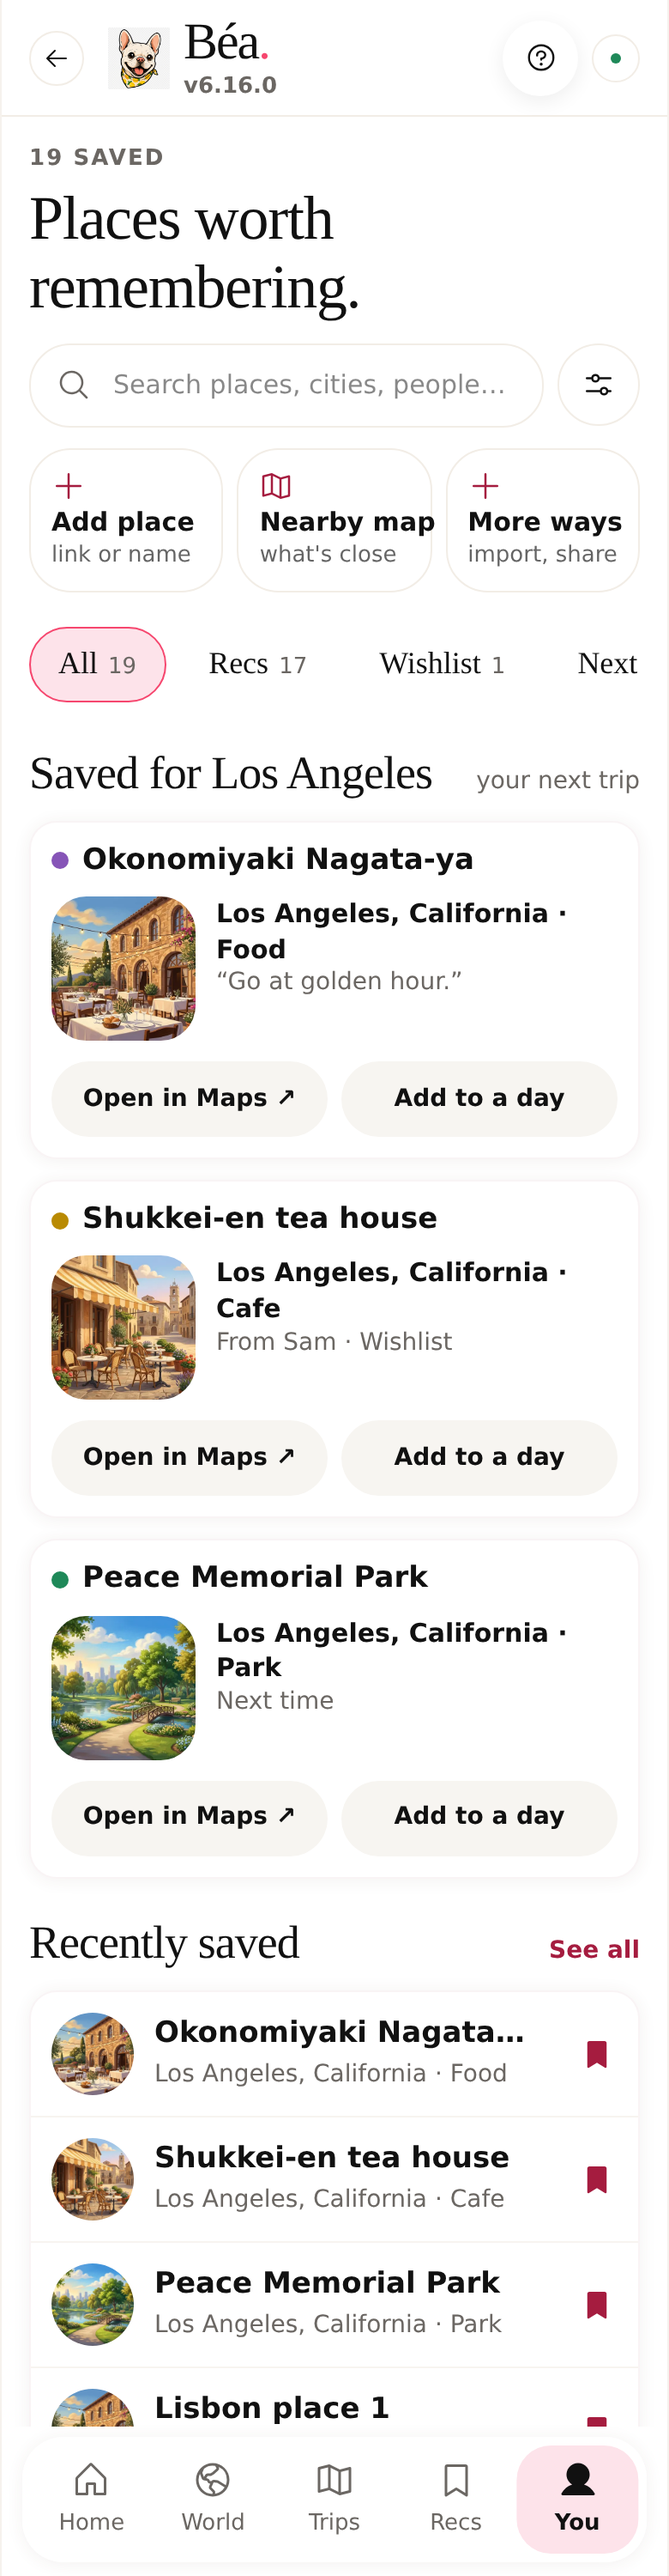
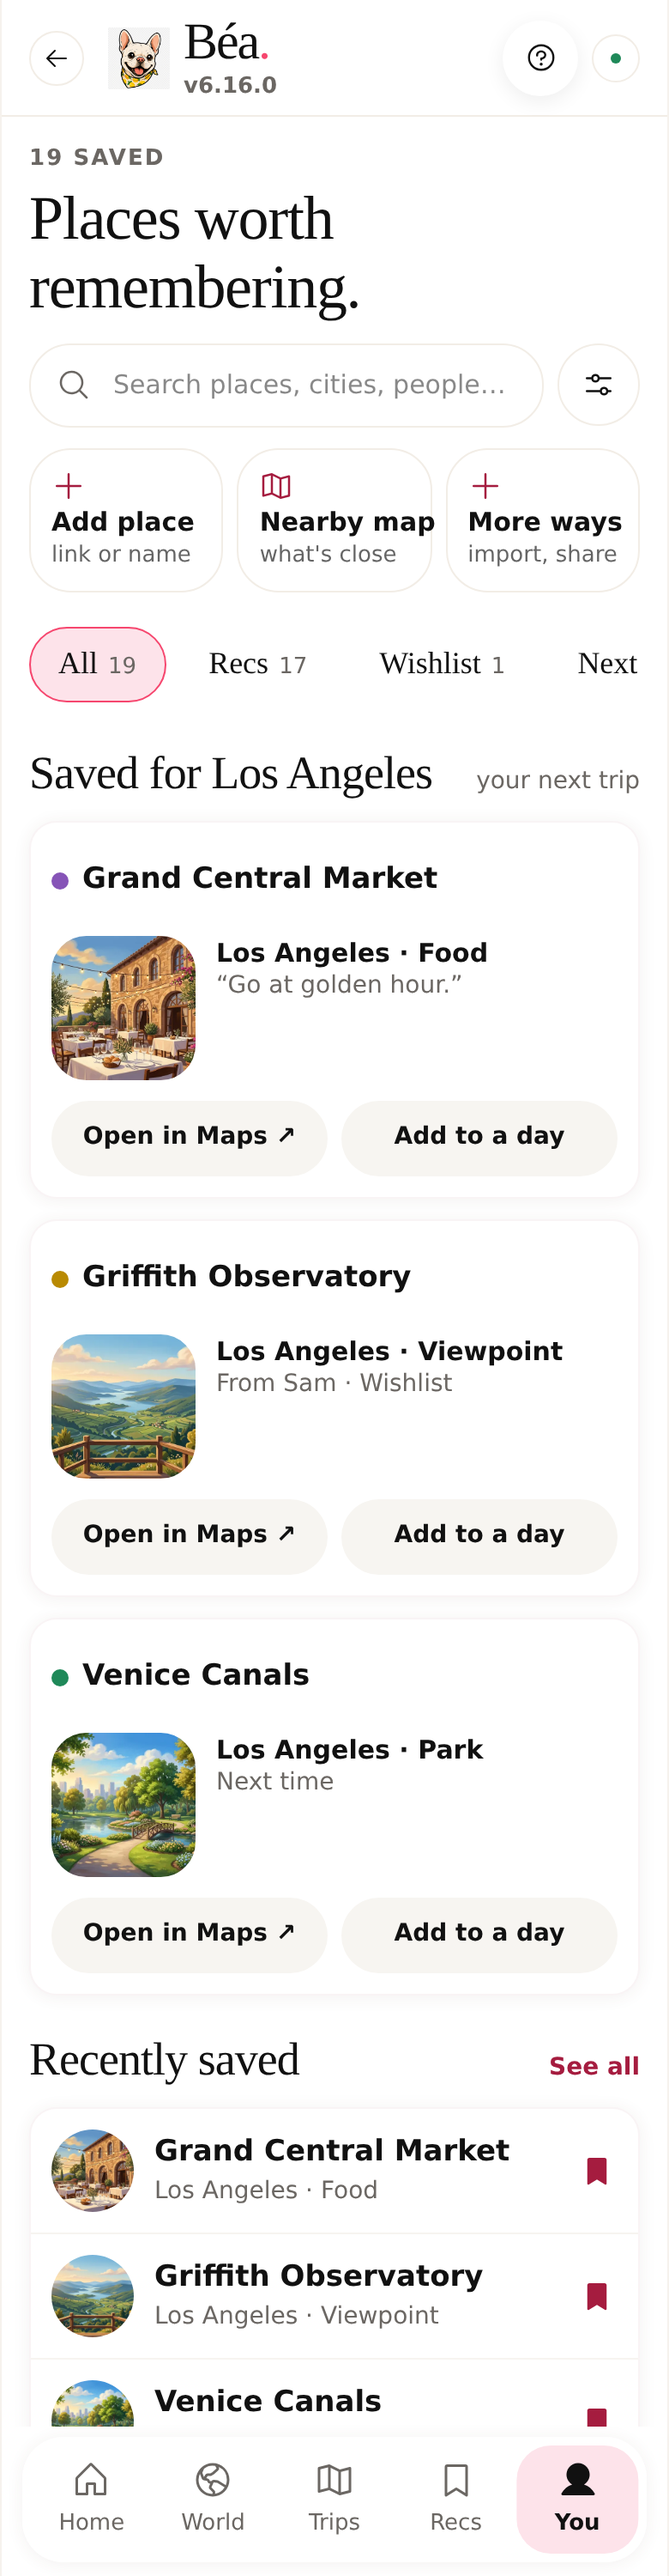
Recs and You: address review findings
Logical spacing on list counts, a theme picker that does not go stale under the sheets, whole class names for the You row bubbles, a Los Angeles fixture that matches its trip, unused collection code removed, a 44 px tap target on card names.

Claude-Session: https://claude.ai/code/session_012upFV6WjyP6Sen8JvUuEKt

diff --git a/src/routes/recommendations.tsx b/src/routes/recommendations.tsx
@@ -11,11 +11,9 @@ import {
   Bookmark,
   ChevronDown,
   Hand,
-  Heart,
   Inbox,
   ListPlus,
   LocateFixed,
-  MapPin,
   MapPinned,
   Plus,
   Search,
@@ -64,7 +62,6 @@ import {
 import { extractPastedPlaceLink, looksLikePastedPlaceLink } from "@/lib/place-paste";
 import { placeSuggestionLines, formatTripLocation } from "@/lib/place-label";
 import { prettyPlaceCategory } from "@/lib/place-kind";
-import { placeArtUrl, type PlaceArt as PlaceArtKind } from "@/lib/place-art";
 import { useUndo } from "@/hooks/useUndo";
 import {
   capturedFromParsedPlace,
@@ -685,18 +682,6 @@ function RecommendationsPage() {
         .slice(0, 4)
     : [];
   const counts = listCounts(vault.rows.filter((r) => !hiddenFromRecs(r, r.pin_type, r.visited)));
-  const recent = recentlySaved(
-    vault.rows.filter((r) => !hiddenFromRecs(r, r.pin_type, r.visited)),
-    3,
-  );
-  const latestIn = (t: PinType) =>
-    recentlySaved(
-      vault.rows.filter(
-        (r) => (r.pin_type ?? "reco") === t && !hiddenFromRecs(r, r.pin_type, r.visited),
-      ),
-      1,
-    )[0];
-
   const savedRow = justSaved ? vault.rows.find((r) => r.id === justSaved.id) : undefined;
   const placeRow =
     screen.kind === "place" && screen.place.savedId
@@ -714,7 +699,7 @@ function RecommendationsPage() {
       <button
         type="button"
         onClick={() => openPlace(placeFromRow(r))}
-        className="flex items-center gap-2 text-left"
+        className="flex min-h-11 w-full items-center gap-2 text-left"
       >
         <span
           className={`size-2.5 shrink-0 rounded-full ${pinColorClass[(r.pin_type ?? "reco") as PinType]}`}
@@ -1424,7 +1409,7 @@ function RecommendationsPage() {
                     }`}
                   >
                     {label}
-                    <span className="ml-1.5 font-sans text-[13px] text-muted-foreground">{n}</span>
+                    <span className="ms-1.5 font-sans text-[13px] text-muted-foreground">{n}</span>
                   </button>
                 ))}
               </div>
@@ -1639,12 +1624,6 @@ function RecommendationsPage() {
     </AppShell>
   );
 }
-
-const COLLECTION_ART: Record<"reco" | "wishlist" | "nexttime", PlaceArtKind> = {
-  reco: "street",
-  wishlist: "viewpoint",
-  nexttime: "harbour",
-};
 
 function EmptyVault() {
   const settings = useBeaSettings();

diff --git a/scripts/preview/src/fake-supabase.ts b/scripts/preview/src/fake-supabase.ts
@@ -220,14 +220,14 @@ const noneDb: Record<string, Row[]> = {
 };
 
 // "recs" and "you": the next trip's city has saved places, in each list.
-const tripCity = (homeDb.trips ?? [])[0]?.city ?? "Hiroshima";
+const tripCity = ((homeDb.trips ?? [])[0]?.city as string | undefined)?.split(",")[0] ?? "Los Angeles";
 const recsDb: Record<string, Row[]> = {
   ...homeDb,
   profiles: [{ id: "me", display_name: "Mattie", home_city: "Montréal", app_settings: {} }],
   recommendations: [
     ...savedPlaces,
-    ...[["Okonomiyaki Nagata-ya", "Food", "reco", "Go at golden hour."], ["Shukkei-en tea house", "Cafe", "wishlist", null], ["Peace Memorial Park", "Park", "nexttime", null]].map(([name, category, pin_type, notes], i) => ({
-      id: `tc-${i}`, user_id: "me", name, city: tripCity, country: "Japan", address: null, category, notes, recommended_by: i === 1 ? "Sam" : null, source: null, url: null, lat: 34.39 + i * 0.01, lon: 132.45, visited: false, pin_type, created_at: ago(100 + i),
+    ...[["Grand Central Market", "Food", "reco", "Go at golden hour."], ["Griffith Observatory", "Viewpoint", "wishlist", null], ["Venice Canals", "Park", "nexttime", null]].map(([name, category, pin_type, notes], i) => ({
+      id: `tc-${i}`, user_id: "me", name, city: tripCity, country: "United States", address: null, category, notes, recommended_by: i === 1 ? "Sam" : null, source: null, url: null, lat: 34.05 + i * 0.01, lon: -118.24, visited: false, pin_type, created_at: ago(100 + i),
     })),
   ],
 };

diff --git a/src/routes/profile.tsx b/src/routes/profile.tsx
@@ -387,7 +387,7 @@ function ProfilePage() {
               guide="offline-options"
             />
           </div>
-          <ThemePicker />
+          {panel === null && <ThemePicker />}
         </div>
 
         <div className="space-y-3">
@@ -696,6 +696,15 @@ function Figure({
   );
 }
 
+// Whole class names, so Tailwind finds every tone.
+const BUBBLE: Record<Tone, string> = {
+  1: "bg-tile-1",
+  2: "bg-tile-2",
+  3: "bg-tile-3",
+  4: "bg-tile-4",
+  5: "bg-tile-5",
+};
+
 /** A row in a grouped list: a pastel bubble, a serif title, one line, a chevron. */
 function ListRow({
   icon: Glyph,
@@ -718,7 +727,7 @@ function ListRow({
 }) {
   const body = (
     <>
-      <span className={`grid size-11 shrink-0 place-items-center rounded-full bg-tile-${tone}`}>
+      <span className={`grid size-11 shrink-0 place-items-center rounded-full ${BUBBLE[tone]}`}>
         <Glyph className={`seq-text-${tone} size-5`} aria-hidden />
       </span>
       <span className="min-w-0 flex-1">
